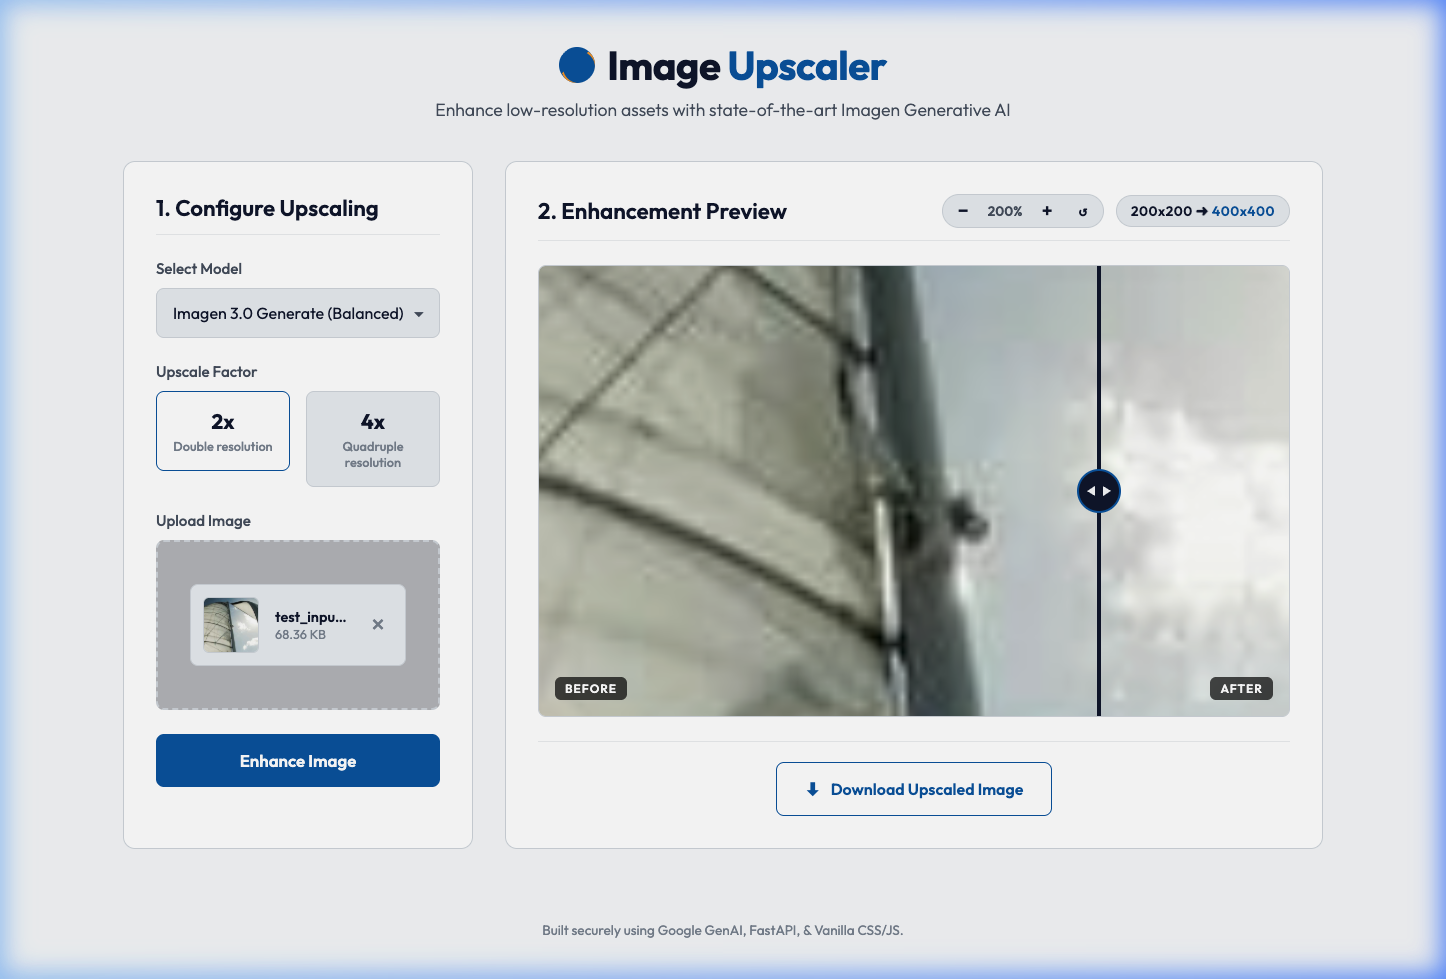
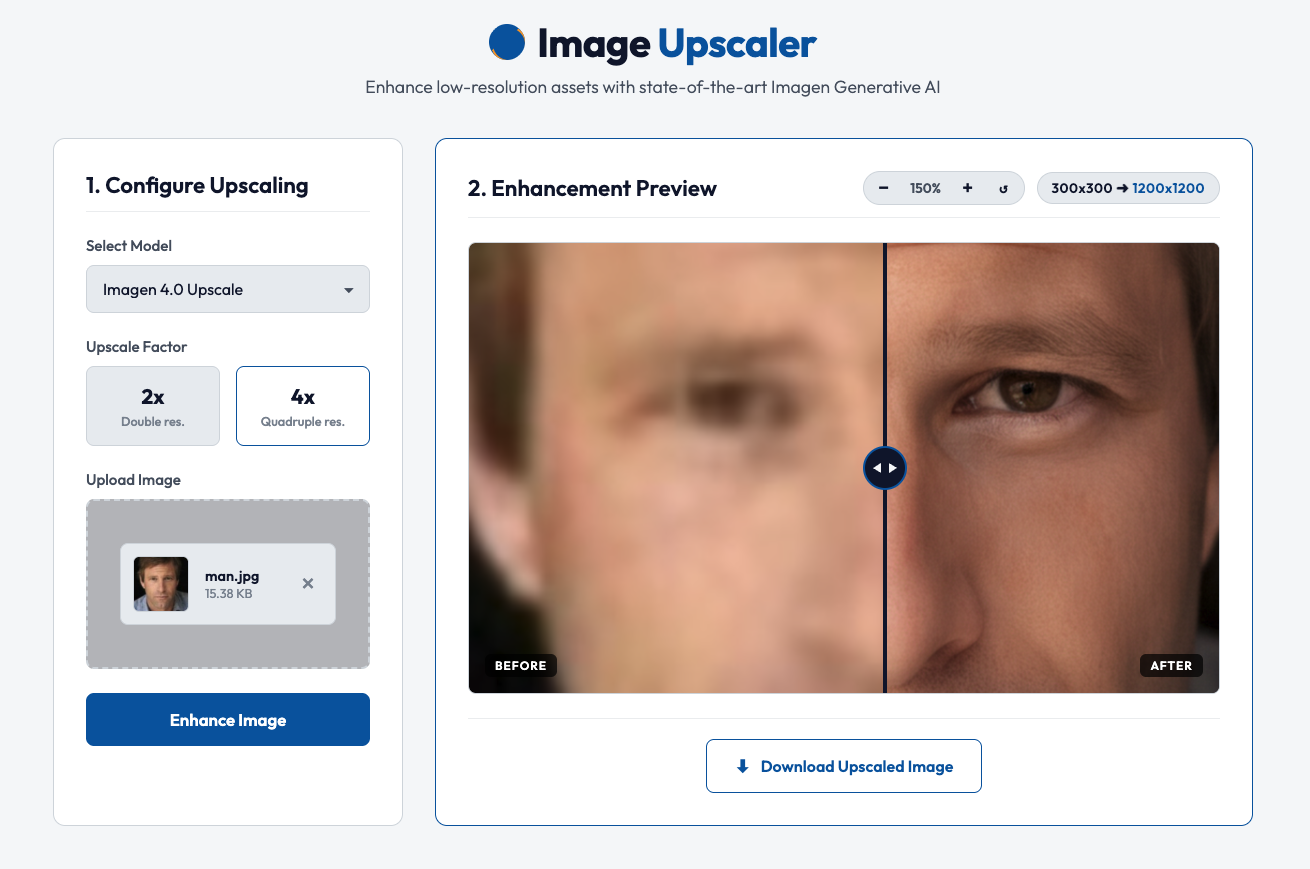
Refactor: Extract Vertex AI upscaling logic from main.py into app/upscaler.py service module

diff --git a/app/upscaler.py b/app/upscaler.py
@@ -1,0 +1,63 @@
+import os
+import subprocess
+from google import genai
+from google.genai import types
+from google.oauth2.credentials import Credentials
+
+# Helper to dynamically get auth credentials and project from the active gcloud account
+def get_genai_client():
+    project_id = os.environ.get("PROJECT_ID") or os.environ.get("GCP_PROJECT") or os.environ.get("GCLOUD_PROJECT")
+    location = os.environ.get("LOCATION") or os.environ.get("GCP_LOCATION") or "us-central1"
+    credentials = None
+    
+    try:
+        # Fetch fresh token from active gcloud user account
+        token = subprocess.check_output(["gcloud", "auth", "print-access-token"], text=True).strip()
+        credentials = Credentials(token=token)
+    except Exception as e:
+        # Log error securely without exposing credentials details
+        print("[Security Check] Failed to resolve gcloud token. Fallback to default credentials.")
+        
+    if not project_id:
+        try:
+            # Fetch active project from local gcloud configuration dynamically
+            project_id = subprocess.check_output(["gcloud", "config", "get-value", "project"], text=True).strip()
+        except Exception:
+            pass
+            
+    # Secure fallback if resolving fails
+    if not project_id:
+        project_id = "ninghai-srtt"
+        
+    print(f"[API Setup] Initializing GenAI Client for project: {project_id} in region: {location}", flush=True)
+    
+    # Standard GenAI Client initialization in Vertex AI mode
+    return genai.Client(
+        vertexai=True,
+        project=project_id,
+        location=location,
+        credentials=credentials
+    )
+
+def run_upscale(image_path: str, model: str, scale_factor: str) -> tuple[bytes, str]:
+    """
+    Executes upscaling of an image file using the specified Imagen model via Vertex AI.
+    Returns a tuple of (upscaled_image_bytes, mime_type).
+    """
+    client = get_genai_client()
+    
+    response = client.models.upscale_image(
+        model=model,
+        image=types.Image.from_file(location=image_path),
+        upscale_factor=scale_factor
+    )
+    
+    # Extract the upscaled image bytes
+    output_image_obj = response.generated_images[0].image
+    if not output_image_obj or not output_image_obj.image_bytes:
+        raise Exception("Model returned an empty image or missing bytes.")
+        
+    upscaled_bytes = output_image_obj.image_bytes
+    mime_type = output_image_obj.mime_type or "image/png"
+    
+    return upcaled_bytes, mime_type

diff --git a/app/main.py b/app/main.py
@@ -10,10 +10,8 @@ from fastapi import FastAPI, File, UploadFile, Form, HTTPException
 from fastapi.responses import JSONResponse
 from fastapi.staticfiles import StaticFiles
 from fastapi.middleware.cors import CORSMiddleware
-from google import genai
-from google.genai import types
-from google.oauth2.credentials import Credentials
 from PIL import Image
+from app.upscaler import run_upscale
 import io
 import base64
 
@@ -40,40 +38,7 @@ app.add_middleware(
     allow_headers=["*"],
 )
 
-# Helper to dynamically get auth credentials and project from the active gcloud account
-def get_genai_client():
-    project_id = os.environ.get("PROJECT_ID") or os.environ.get("GCP_PROJECT") or os.environ.get("GCLOUD_PROJECT")
-    location = os.environ.get("LOCATION") or os.environ.get("GCP_LOCATION") or "us-central1"
-    credentials = None
-    
-    try:
-        # Fetch fresh token from active gcloud user account
-        token = subprocess.check_output(["gcloud", "auth", "print-access-token"], text=True).strip()
-        credentials = Credentials(token=token)
-    except Exception as e:
-        # Log error securely without exposing credentials details
-        print("[Security Check] Failed to resolve gcloud token. Fallback to default credentials.")
-        
-    if not project_id:
-        try:
-            # Fetch active project from local gcloud configuration dynamically
-            project_id = subprocess.check_output(["gcloud", "config", "get-value", "project"], text=True).strip()
-        except Exception:
-            pass
-            
-    # Secure fallback if resolving fails
-    if not project_id:
-        project_id = "ninghai-srtt"
-        
-    print(f"[API Setup] Initializing GenAI Client for project: {project_id} in region: {location}", flush=True)
-    
-    # Standard GenAI Client initialization in Vertex AI mode
-    return genai.Client(
-        vertexai=True,
-        project=project_id,
-        location=location,
-        credentials=credentials
-    )
+
 
 @app.post("/api/upscale")
 async def upscale_image(
@@ -135,23 +100,14 @@ async def upscale_image(
             os.remove(input_file_path)
         raise HTTPException(status_code=400, detail="Invalid image file structure or corrupted content.")
 
-    # 8. Call Gemini API via google-genai SDK
-    client = get_genai_client()
-    
+    # 8. Call upscaler service
     try:
-        print(f"Upscaling image: {safe_filename} using {model} scale: {scale}...")
-        response = client.models.upscale_image(
+        print(f"Upscaling image: {safe_filename} using {model} scale: {scale}...", flush=True)
+        upscaled_bytes, mime_type = run_upscale(
+            image_path=input_file_path,
             model=model,
-            image=types.Image.from_file(location=input_file_path),
-            upscale_factor=scale
+            scale_factor=scale
         )
-        
-        # Extract the upscaled image bytes
-        output_image_obj = response.generated_images[0].image
-        if not output_image_obj or not output_image_obj.image_bytes:
-            raise Exception("Model returned an empty image or missing bytes.")
-            
-        upscaled_bytes = output_image_obj.image_bytes
         
         # Load Pillow image to verify dimensions and structure
         with Image.open(io.BytesIO(upscaled_bytes)) as up_img:
@@ -159,7 +115,6 @@ async def upscale_image(
             
         # Convert upscaled image to base64 data URL
         base64_data = base64.b64encode(upscaled_bytes).decode("utf-8")
-        mime_type = output_image_obj.mime_type or image.content_type
         data_url = f"data:{mime_type};base64,{base64_data}"
         
         return JSONResponse({

diff --git a/README.md b/README.md
@@ -38,7 +38,8 @@ Here is the clean, flat, light-mode dashboard displaying a zoomed-in and panned 
 │   └── screenshot.png     # App preview screenshot for documentation
 ├── app/
 │   ├── __init__.py
-│   ├── main.py            # FastAPI Backend (Routes, validations, & Vertex AI client)
+│   ├── main.py            # FastAPI Backend (Routing, validations, and uploads)
+│   ├── upscaler.py        # Vertex AI Image Upscaling Service & Client Setup
 │   └── static/
 │       ├── index.html     # Single-page dashboard markup
 │       ├── styles.css     # Tailored flat light HSL styles & custom widgets